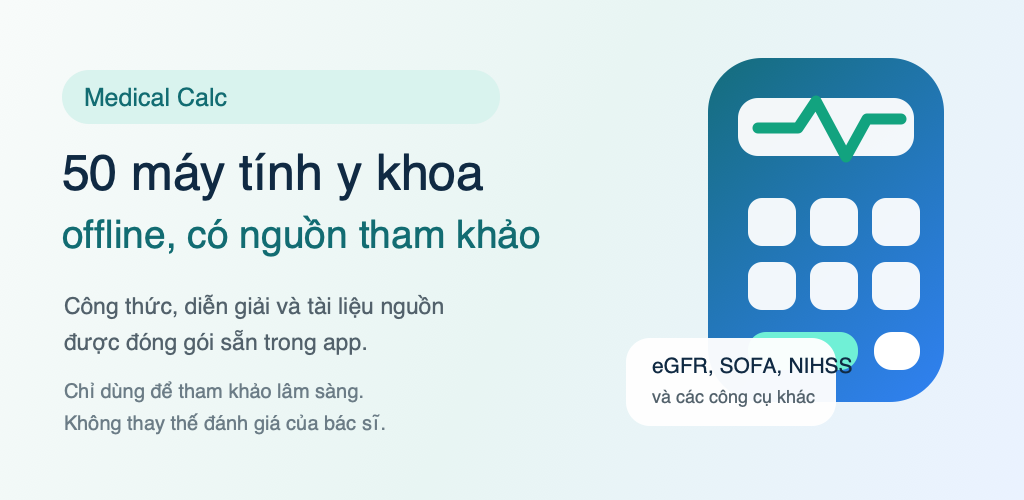
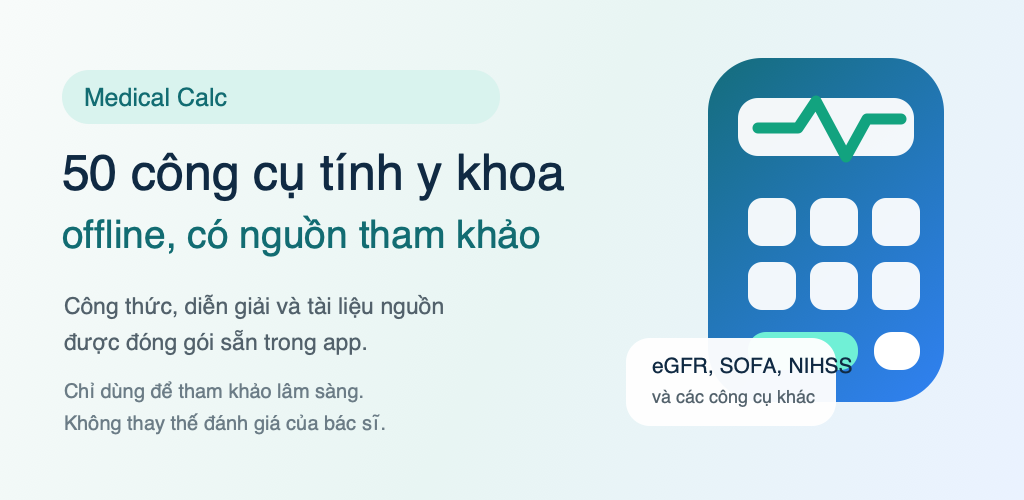
update medical cal

Changed region(s): [[0.125, 0.3, 0.5625, 0.42]]

diff --git a/medical-calc/app-privacy-policy.html b/medical-calc/app-privacy-policy.html
@@ -3,8 +3,8 @@
 <head>
   <meta charset="utf-8">
   <meta name="viewport" content="width=device-width, initial-scale=1">
-  <title>Medical Calc - Máy tính y khoa offline</title>
-  <meta name="description" content="Medical Calc là ứng dụng máy tính y khoa offline bằng tiếng Việt cho nhân viên y tế, có 50 calculator, công thức, diễn giải và tài liệu tham khảo.">
+  <title>Medical Calc - Công cụ tính y khoa offline</title>
+  <meta name="description" content="Medical Calc là ứng dụng công cụ tính y khoa offline bằng tiếng Việt cho nhân viên y tế, có 50 calculator, công thức, diễn giải và tài liệu tham khảo.">
   <style>
     :root {
       --teal: #126c72;
@@ -323,10 +323,10 @@
           <img class="app-icon" src="launcher_icon_1024.png" alt="Biểu tượng ứng dụng Medical Calc">
           <div class="badge-text">
             Medical Calc
-            <span>Máy tính y khoa offline</span>
+            <span>Công cụ tính y khoa offline</span>
           </div>
         </div>
-        <h1>50 máy tính y khoa bằng tiếng Việt</h1>
+        <h1>50 công cụ tính y khoa bằng tiếng Việt</h1>
         <p class="hero-copy">Công thức, diễn giải và tài liệu tham khảo được đóng gói sẵn trong app để tra cứu nhanh; quảng cáo và mua gói tắt quảng cáo dùng dịch vụ Google.</p>
         <div class="hero-actions">
           <a class="button" href="#playstore">Nội dung Play Store</a>
@@ -368,13 +368,13 @@
             <h3>Tên ứng dụng</h3>
             <p>Medical Calc</p>
             <h3>Mô tả ngắn</h3>
-            <p>Máy tính y khoa offline bằng tiếng Việt cho nhân viên y tế.</p>
+            <p>Công cụ tính y khoa offline bằng tiếng Việt cho nhân viên y tế.</p>
             <p class="char-note">Mô tả ngắn dưới 80 ký tự, phù hợp trường Short description của Google Play.</p>
           </article>
 
           <article class="card play-field">
             <h3>Mô tả đầy đủ</h3>
-            <p>Medical Calc là ứng dụng máy tính y khoa offline bằng tiếng Việt, được thiết kế để hỗ trợ nhân viên y tế tra cứu và tính nhanh các công thức lâm sàng thường dùng.</p>
+            <p>Medical Calc là ứng dụng công cụ tính y khoa offline bằng tiếng Việt, được thiết kế để hỗ trợ nhân viên y tế tra cứu và tính nhanh các công thức lâm sàng thường dùng.</p>
             <p>Bản phát hành đầu tiên gồm 50 calculator, bao phủ các nhóm như cấp cứu, hồi sức, tim mạch, hô hấp, thận - tiết niệu, tiêu hóa - gan mật, huyết học, thần kinh, nhi khoa, sản phụ khoa và nội tổng quát.</p>
             <ul>
               <li>Tra cứu calculator theo tên, viết tắt, chuyên khoa và từ khóa.</li>
@@ -395,12 +395,13 @@
         <div class="section-head">
           <h2>App Privacy Policy</h2>
           <p class="lead">Chính sách này áp dụng cho ứng dụng Medical Calc phát hành trên Google Play. Email liên hệ nhà phát triển: <a href="mailto:minhthang0792@gmail.com">minhthang0792@gmail.com</a>.</p>
+          <p class="lead"><strong>Cập nhật lần cuối:</strong> 10/09/2026 — áp dụng cho phiên bản 1.0.0 (versionCode 3).</p>
         </div>
 
         <div class="privacy-grid">
           <article class="card">
             <h3>Tóm tắt quyền riêng tư</h3>
-            <p>Medical Calc là ứng dụng máy tính y khoa tiếng Việt. Nội dung công thức được đóng gói trong app; quảng cáo Google AdMob và mua hàng Google Play Billing cần kết nối mạng.</p>
+            <p>Medical Calc là ứng dụng công cụ tính y khoa tiếng Việt. Nội dung công thức được đóng gói trong app; quảng cáo Google AdMob và mua hàng Google Play Billing cần kết nối mạng.</p>
             <p>Ứng dụng không yêu cầu tài khoản, không có máy chủ riêng để nhận dữ liệu người dùng, không bán dữ liệu cá nhân và không yêu cầu người dùng nhập thông tin định danh bệnh nhân.</p>
             <p>Người dùng không nên nhập tên, số hồ sơ, số điện thoại, địa chỉ hoặc bất kỳ thông tin định danh bệnh nhân nào vào lịch sử tính.</p>
           </article>
@@ -443,7 +444,7 @@
           </div>
           <div class="row" role="row">
             <strong role="cell">Tùy chọn cài đặt</strong>
-            <span role="cell">Lưu cục bộ các tùy chọn như bật/tắt lịch sử tính và trạng thái đã mua remove_ads.</span>
+            <span role="cell">Lưu cục bộ các tùy chọn như bật/tắt lịch sử tính, đơn vị xét nghiệm đang chọn cho từng chất (ví dụ creatinin µmol/L hay mg/dL) và trạng thái đã mua remove_ads.</span>
           </div>
         </div>
 
